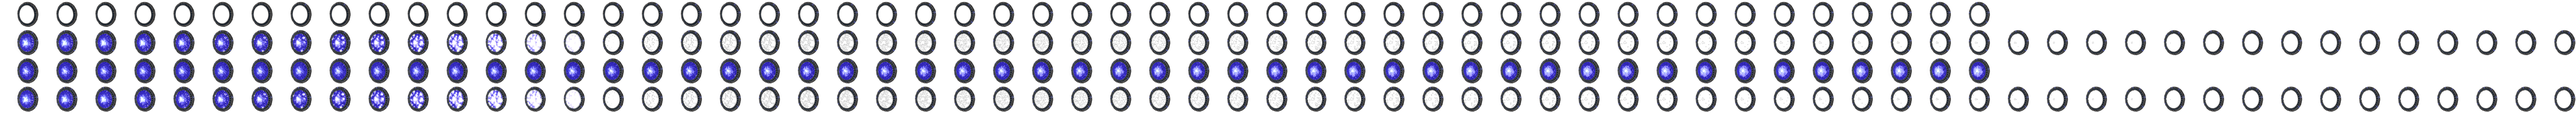
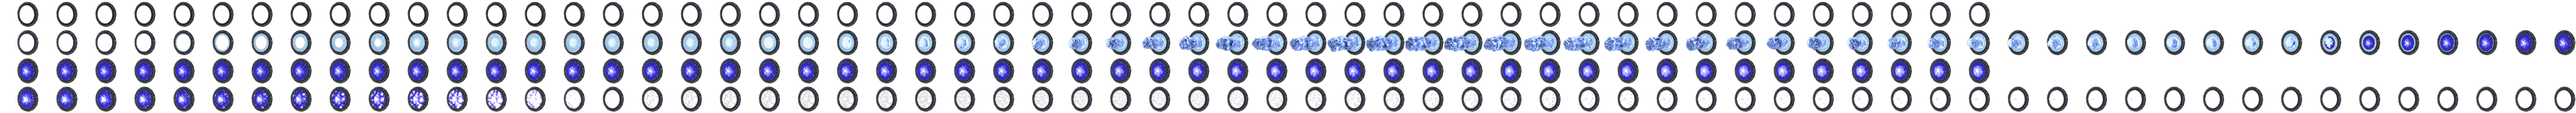
New pegasus gate graphics (made by DerTod)

Changed region(s): [[0.0, 0.2812, 1.0, 0.4688]]

diff --git a/SGGPV30.c4d/Stargate.c4d/Iris.c4d/Script.c b/SGGPV30.c4d/Stargate.c4d/Iris.c4d/Script.c
@@ -47,6 +47,7 @@ func GDOControl(pwget)
 
 func Switch()
 {
+    var phase = GetPhase();
   if(open)
   {
    if(GetAction() eq "Open")
@@ -70,6 +71,7 @@ func Switch()
      Sound("iris_atlantis_close");
     }
 	else Sound("luke1");
+    SetPhase(20-phase);
    }
    if(GetAction() eq "Closes")
    {
@@ -100,6 +102,7 @@ func Switch()
      Sound("iris_atlantis_open");
     }
 	else Sound("luke1");
+    SetPhase(20 - phase);
    }
    if(GetAction() eq "Close")
    {
@@ -167,11 +170,6 @@ func IsClose()
 
 func Break()
 {
-  if(IsClose())
-  {
-   CreateObject(ROCK,GetX(target),GetY(target),-1)->Explode(24);
-   return(1);
-  }
-  RemoveObject();
-  return(1);
+  Explode(24);
+  return 1;
 }

diff --git a/SGGPV30.c4d/Rules.c4d/Help.c4d/Script.c b/SGGPV30.c4d/Rules.c4d/Help.c4d/Script.c
@@ -83,7 +83,7 @@ func Activate(int iPlayer)
 	pCall = GetCursor(iPlayer);
 	CreateMenu(HELP, pCall, 0, 0,"Infos und so", 0, 1,1);
 	AddMenuItem("Info", Format("Info(%d)",iPlayer),MEPU, pCall);
-	if(iPlayer == 0)
+	if(iPlayer == 0 || IsSGGPTeamMember(iPlayer))
 	{
 		AddMenuItem("Einstellungen", Format("ChooseRules(%d)",iPlayer),MEPU, pCall);
 		if(!NoMordet)AddMenuItem("Beitritt deaktivieren", Format("NoMore(0)"),MEPU, pCall);
